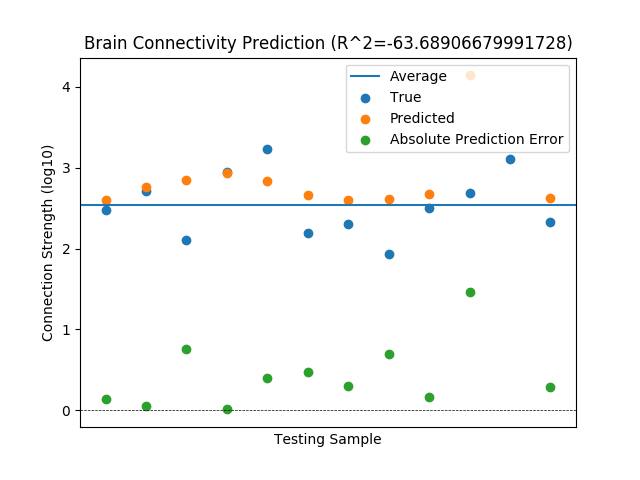
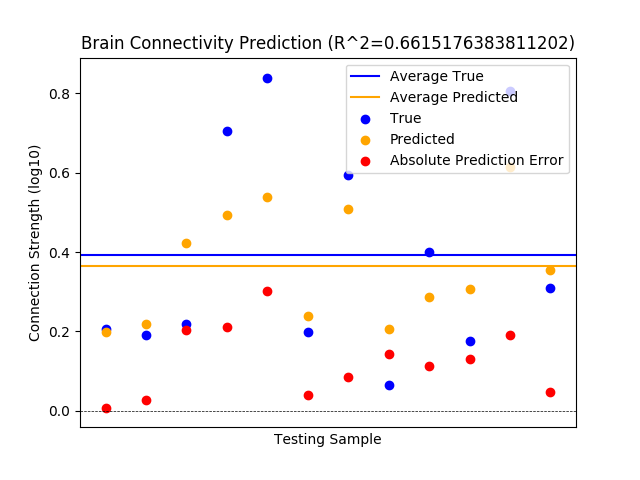
changing to normalization rather than logging

diff --git a/network_analysis.py b/network_analysis.py
@@ -8,6 +8,7 @@ import matplotlib.pyplot as plt
 import numpy as np
 
 from sklearn.model_selection import train_test_split
+from sklearn.preprocessing import normalize as nmlz
 from sklearn.linear_model import Ridge
 
 import warnings
@@ -67,8 +68,10 @@ def plot_graph(graph, anno_locs=None, anno_text=None, fname=False, title=None):
         plt.show()
 
 
-def model_graphs(graph_table):
+def model_graphs(graph_table, normalize=True):
     np.random.seed(123457)
+    if normalize:
+        graph_table = nmlz(graph_table, axis=1)
     # Extract the columns of interest
     X = graph_table[:,0:12]
     y = graph_table[:,-1]
@@ -88,24 +91,21 @@ def model_graphs(graph_table):
 
 def plot_performance(predicted, expected, fname=None, title=None):
     plt.clf()
-
-    predicted = np.log10(predicted)
-    expected = np.log10(expected)
-
     # Add reference line for true weights relative to off-guesses
-    avg_weight = np.mean(expected)
-    plt.axhline(avg_weight)
+    plt.axhline(np.mean(expected), color="blue")
+    plt.axhline(np.mean(predicted), color="orange")
 
     # Show a jittered scatter plot for all performance numbers and their errors
     xvals = np.linspace(0, 1, len(predicted))
-    plt.scatter(xvals, expected)
-    plt.scatter(xvals, predicted)
-    plt.scatter(xvals, np.abs(predicted-expected))
+    plt.scatter(xvals, expected, color="blue")
+    plt.scatter(xvals, predicted, color="orange")
+    plt.scatter(xvals, np.abs(predicted-expected), color="red")
 
-    plt.ylabel("Connection Strength (log10)")
+    plt.ylabel("Connection Strength")
     plt.xlabel("Testing Sample")
     plt.xticks([])
-    plt.legend(["Average", "True", "Predicted", "Absolute Prediction Error"])
+    plt.legend(["Average True", "Average Predicted", "True", "Predicted",
+                "Absolute Prediction Error"])
     plt.axhline(0, color='black', linestyle='--', linewidth=0.5)
 
     # Adds a title
@@ -177,7 +177,7 @@ def main():
     # using all the others.
 
     # Train and evaluate the model
-    score, predicted, expected = model_graphs(graph_table)
+    score, predicted, expected = model_graphs(graph_table, normalize=True)
     print("Performance of classifier (R^2 error): {0}".format(score))
 
     # Plot the residual edge weight
